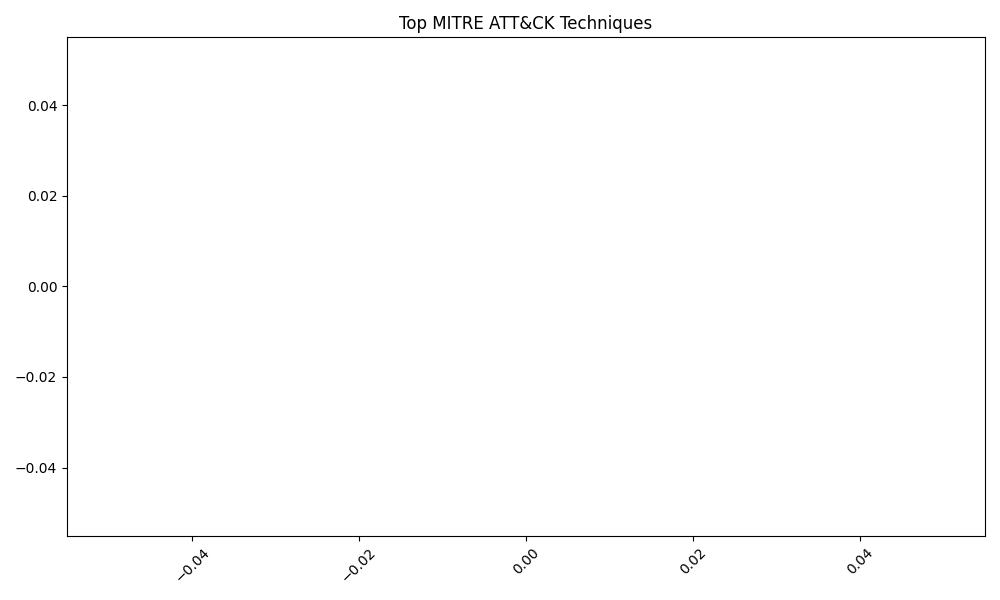
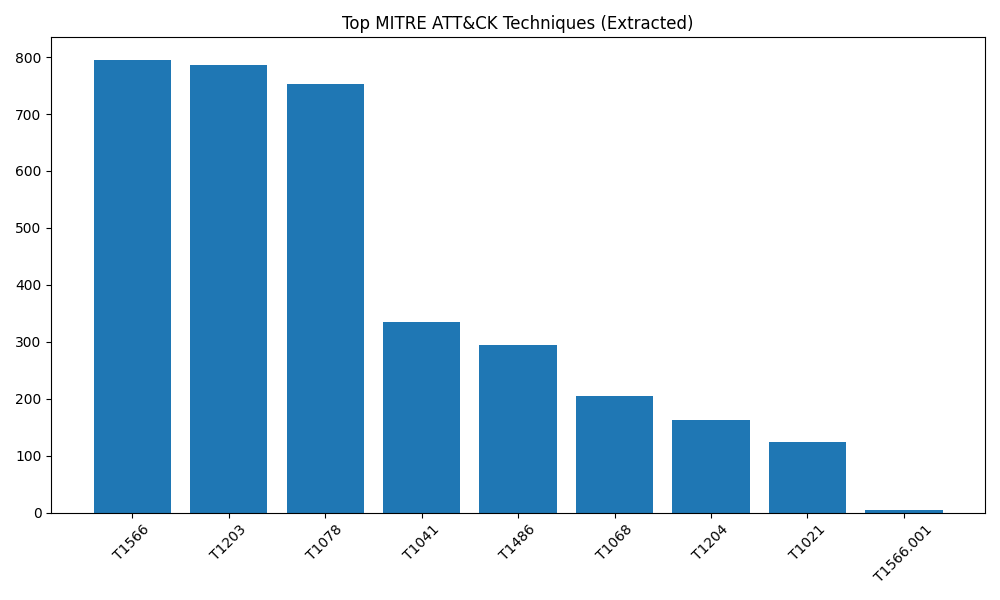
Added mitre techniques

diff --git a/core/attack_analytics.py b/core/attack_analytics.py
@@ -1,4 +1,5 @@
 import json
+import re
 from collections import Counter
 import matplotlib.pyplot as plt
 
@@ -6,14 +7,49 @@ import matplotlib.pyplot as plt
 class MitreAnalytics:
 
     def __init__(self):
-        pass
+        # Lightweight MITRE keyword mapping (works without structured labels)
+        self.mitre_map = {
+            "phishing": "T1566",
+            "email": "T1566",
+            "spear phishing": "T1566.001",
+            "credential": "T1078",
+            "login": "T1078",
+            "ransomware": "T1486",
+            "malware": "T1204",
+            "execution": "T1203",
+            "privilege escalation": "T1068",
+            "lateral movement": "T1021",
+            "exfiltration": "T1041",
+            "exploit": "T1203",
+            "vulnerability": "T1203"
+        }
 
     def load_dataset(self, path):
+        """Load JSONL dataset safely"""
+        dataset = []
 
         with open(path, "r", encoding="utf-8") as f:
-            return [json.loads(line) for line in f]
+            for line in f:
+                line = line.strip()
+                if line:
+                    dataset.append(json.loads(line))
+
+        return dataset
+
+    def map_to_mitre(self, text):
+        """Map free-text to MITRE ATT&CK technique IDs"""
+        text = text.lower()
+
+        matched = []
+
+        for keyword, technique in self.mitre_map.items():
+            if keyword in text:
+                matched.append(technique)
+
+        return matched
 
     def extract_techniques(self, dataset):
+        """Extract MITRE techniques from dataset"""
 
         techniques = []
 
@@ -21,28 +57,34 @@ class MitreAnalytics:
 
             for stage in scenario.get("attack_stages", []):
 
-                for tech in stage.get("techniques", []):
+                text_blob = ""
 
-                    tech_id = tech.get("technique_id")
+                # combine all available text fields
+                text_blob += stage.get("stage_name", "") + " "
+                text_blob += stage.get("description", "") + " "
 
-                    if tech_id:
-                        techniques.append(tech_id)
+                matched = self.map_to_mitre(text_blob)
+
+                techniques.extend(matched)
 
         return techniques
 
     def plot_top_techniques(self, techniques, output_path):
 
         counter = Counter(techniques)
-
         top = counter.most_common(10)
 
-        labels = [t[0] for t in top]
-        values = [t[1] for t in top]
+        if not top:
+            print("No MITRE techniques found. Check dataset content.")
+            return
+
+        labels = [x[0] for x in top]
+        values = [x[1] for x in top]
 
         plt.figure(figsize=(10, 6))
         plt.bar(labels, values)
 
-        plt.title("Top MITRE ATT&CK Techniques")
+        plt.title("Top MITRE ATT&CK Techniques (Extracted)")
         plt.xticks(rotation=45)
 
         plt.tight_layout()
@@ -61,9 +103,10 @@ class MitreAnalytics:
         )
 
         return {
-            "total_techniques": len(set(techniques)),
-            "total_occurrences": len(techniques),
-            "top_10": Counter(techniques).most_common(10)
+            "total_scenarios": len(dataset),
+            "unique_techniques": len(set(techniques)),
+            "total_technique_occurrences": len(techniques),
+            "top_10_techniques": Counter(techniques).most_common(10)
         }
 
 

diff --git a/core/mitre_mapper.py b/core/mitre_mapper.py
@@ -1,0 +1,31 @@
+class MitreMapper:
+
+    def __init__(self):
+
+        # simple rule-based mapping (we will improve later with LLM)
+        self.rules = {
+
+            "phishing": "T1566",
+            "email": "T1566",
+            "credential": "T1078",
+            "login": "T1078",
+            "ransomware": "T1486",
+            "malware": "T1204",
+            "execution": "T1203",
+            "privilege": "T1068",
+            "lateral movement": "T1021",
+            "exfiltration": "T1041"
+        }
+
+    def map_text_to_techniques(self, text):
+
+        text = text.lower()
+
+        matched = []
+
+        for key, technique in self.rules.items():
+
+            if key in text:
+                matched.append(technique)
+
+        return matched
